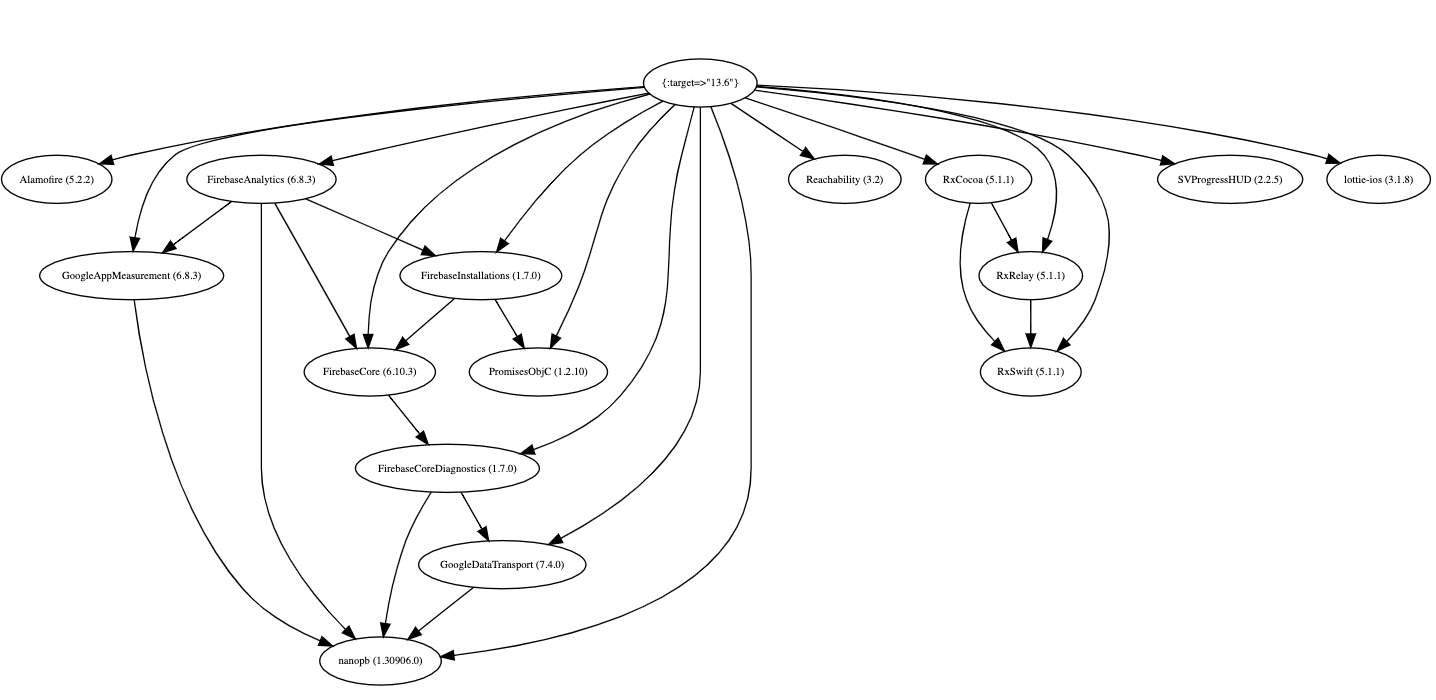
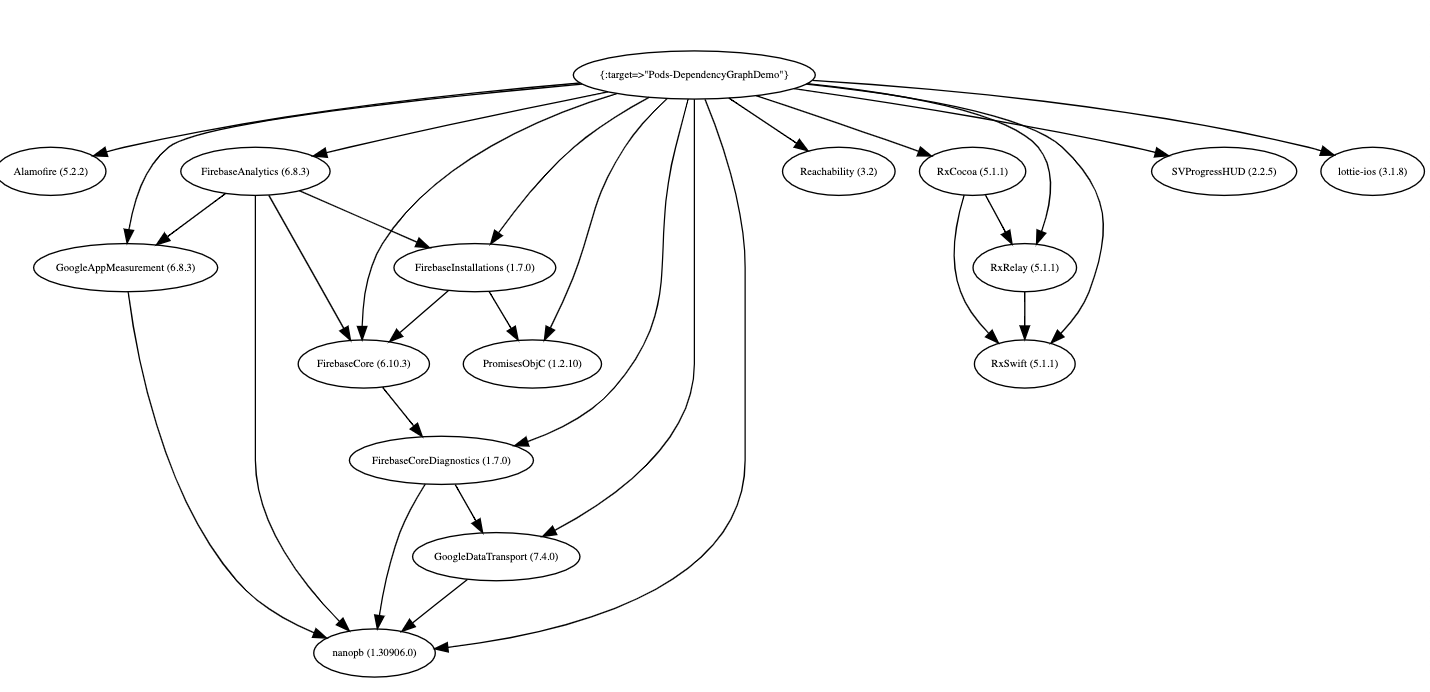
update the root target name

diff --git a/cocoapods-dependency-graph/lib/cocoapods-dependency-graph/generator/json_generator.rb b/cocoapods-dependency-graph/lib/cocoapods-dependency-graph/generator/json_generator.rb
@@ -22,7 +22,7 @@ module Dependency
     #
     def generate(umbrella_target, module_spec_hash)
       @@module_spec_hash = module_spec_hash
-      target_name = umbrella_target.platform_deployment_target
+      target_name = umbrella_target.cocoapods_target_label
       dependency_hash = create_hash(target_name, umbrella_target.specs)
       # puts dependency_hash.to_json
       File.open("cocoapods_dependency_json.json","w") do |f|

diff --git a/cocoapods-dependency-graph/lib/cocoapods-dependency-graph/generator/graph_generator.rb b/cocoapods-dependency-graph/lib/cocoapods-dependency-graph/generator/graph_generator.rb
@@ -30,7 +30,7 @@ module Dependency
     def generate(umbrella_target, module_spec_hash)
       @graph = RGL::DirectedAdjacencyGraph.new
       
-      target_name = umbrella_target.platform_deployment_target
+      target_name = umbrella_target.cocoapods_target_label
       root_node = {:target => target_name} 
       dfs_graph(root_node, umbrella_target.specs)
       
